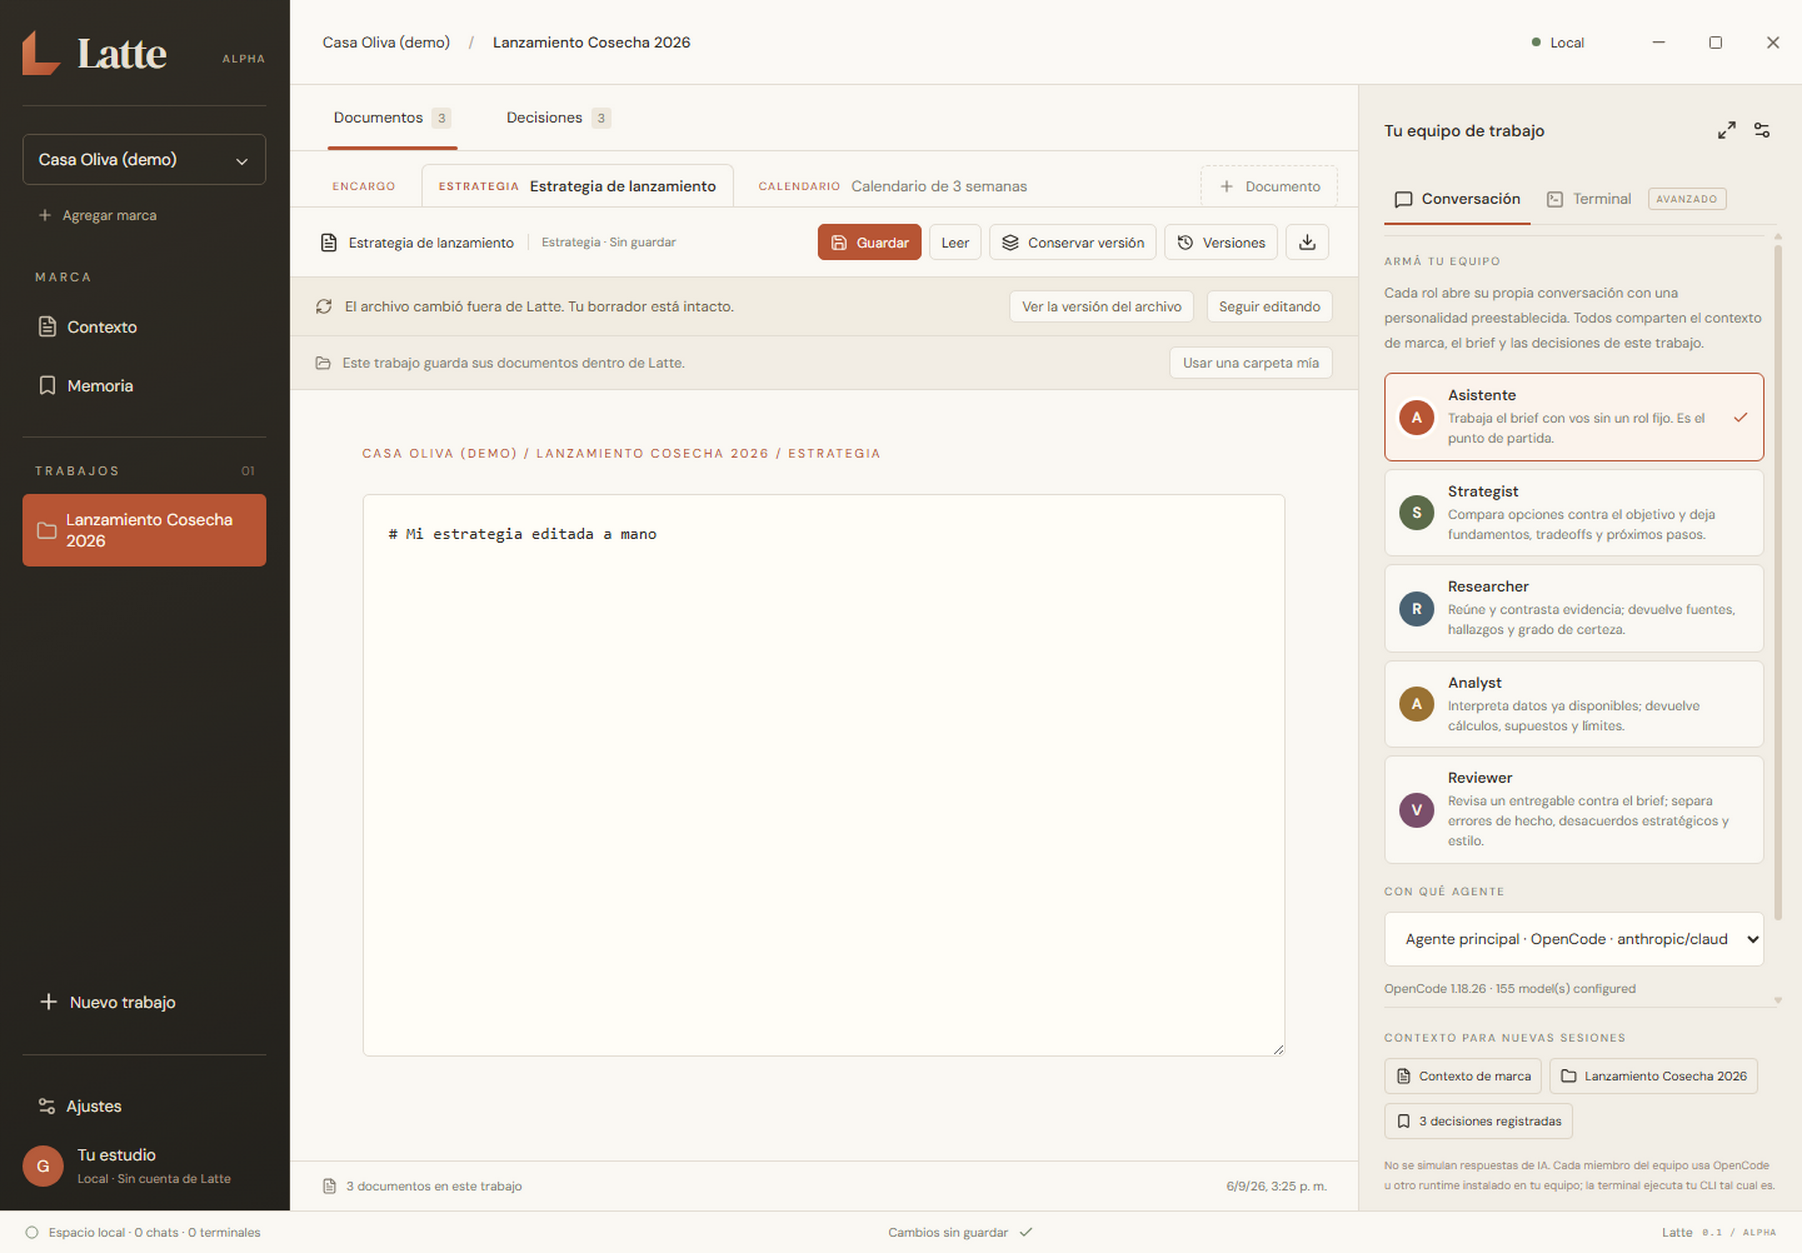
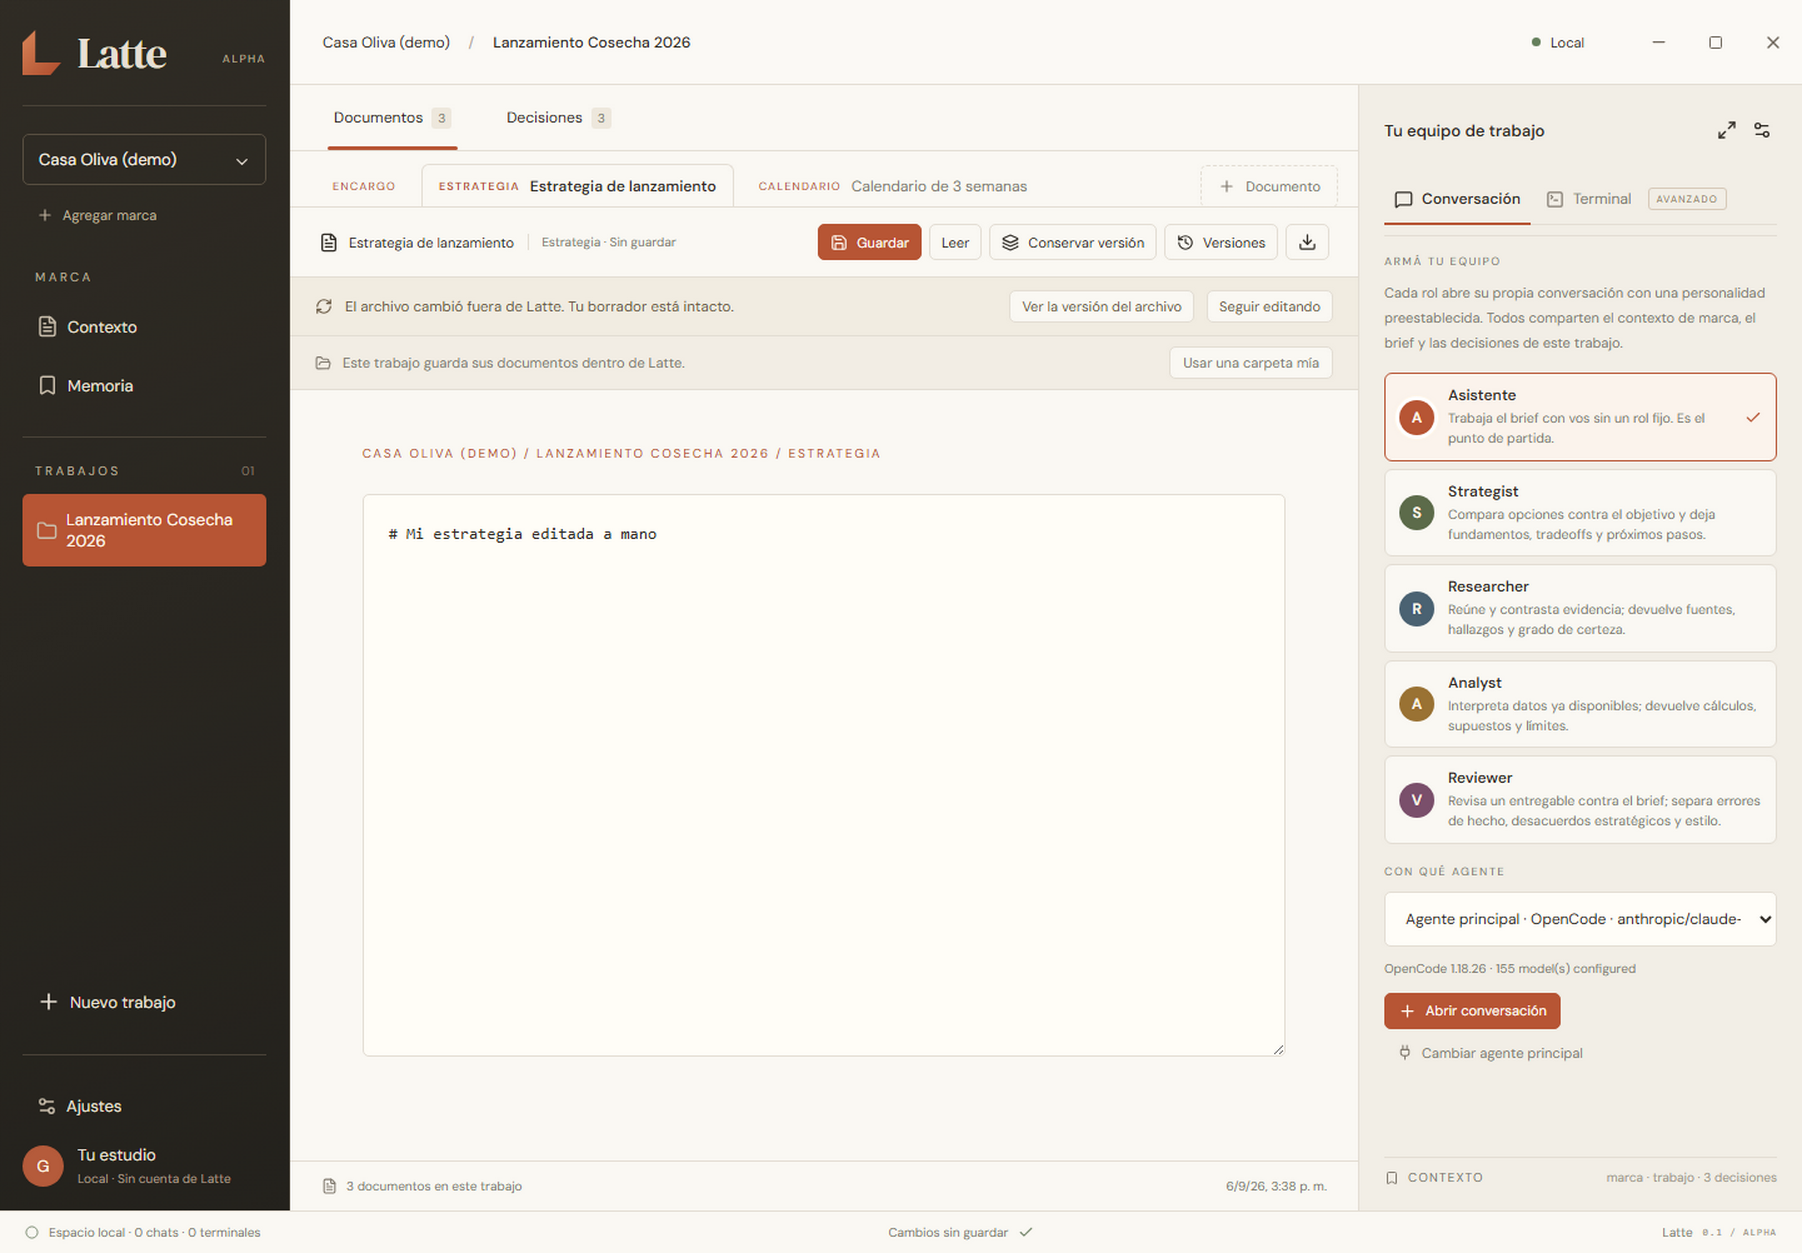
fix: la conversación deja de tener dos scrolls y gana el alto del panel
El panel del equipo y la conversación scrolleaban a la vez, así que el
compositor quedaba cortado y el bloque de contexto le robaba altura al chat.

- La conversación es lo único que scrollea; el roster se acota y el compositor
  queda siempre completo abajo.
- "Contexto para nuevas sesiones" pasa a ser una línea plegable con resumen,
  de 46 px en vez de un bloque fijo.
- scripts/visual-team.cjs mide que no haya scrolls anidados, que el compositor
  entre entero y que el contexto arranque plegado.

Changed region(s): [[0.7458, 0.2179, 0.9945, 0.9649], [0.808, 0.5603, 0.9012, 0.5914]]

diff --git a/src/App.tsx b/src/App.tsx
@@ -237,7 +237,15 @@ export function App() {
       {agentMode === 'terminal' && <><p className="agent-explanation">Tu CLI, con sus herramientas y su propia interfaz. Latte prepara el espacio y el contexto de este trabajo.</p><label className="field-label" htmlFor="provider">RUNTIME</label><select id="provider" value={provider} disabled={Boolean(session) || starting} onChange={e => setProvider(e.target.value as Provider)}>{(['opencode', 'claude', 'codex'] as Provider[]).map(p => <option key={p} value={p}>{p === 'opencode' ? 'OpenCode' : p === 'claude' ? 'Claude Code' : 'Codex'}{runtimes.find(r => r.provider === p)?.available ? ' · Detectado' : ''}</option>)}</select><p className="runtime-detail">{runtimes.find(r => r.provider === provider)?.detail ?? 'Comprobando disponibilidad…'}</p>
         <div className="terminal-stack">{Object.values(sessions).map(s => <div key={s.id} style={{ display: s.id === session?.id ? 'block' : 'none' }}><TerminalPane sessionId={s.id} onError={setError} /></div>)}</div>
         {session ? <><div className="session-heading"><span><i className={sessionEnded ? 'ended-dot' : 'live-dot'} />{session.provider} · {sessionWork?.title ?? 'Trabajo de la sesión'}</span><button aria-label="Detener agente" title="Detener agente" onClick={() => run(async () => { await api.stopAgent(session.id); setSession(null); })}><Square size={13} /></button></div><form className="prompt-form" onSubmit={e => { e.preventDefault(); if (!prompt.trim() || sessionEnded) return; void run(async () => { await api.writeAgent(session.id, prompt + '\r'); setPrompt(''); }); }}><textarea aria-label="Mensaje al agente" placeholder="¿Qué trabajamos ahora?" value={prompt} onChange={e => setPrompt(e.target.value)} /><div><small>{sessionEnded ? 'Sesión finalizada' : 'Se envía al CLI activo'}</small><button className="primary icon-button" disabled={!prompt.trim() || busy || sessionEnded} aria-label="Enviar mensaje"><ArrowUpRight size={18} /></button></div></form></> : <div className="agent-idle"><div className="agent-symbol"><TerminalSquare size={27} /></div><h3>Una terminal real<br />para tu CLI.</h3><p>Iniciá una sesión con tu CLI instalado. Sus permisos y autenticación siguen bajo tu control.</p><button className="primary" disabled={!work || starting || !runtimes.find(r => r.provider === provider)?.available} onClick={start}>{starting ? <LoaderCircle className="spin" size={15} /> : <Plus size={15} />}{starting ? 'Iniciando…' : 'Iniciar agente'}</button>{!isDesktop && <small className="preview-note">La vista web guarda en este navegador. Para ejecutar agentes, abrí Latte Desktop.</small>}</div>}</>}
-      <div className="active-context"><div className="field-label">CONTEXTO PARA NUEVAS SESIONES</div><span><FileText size={13} />{brand?.context ? 'Contexto de marca' : 'Marca sin contexto'}</span><span><Folder size={13} />{work?.title ?? 'Sin trabajo seleccionado'}</span><span><Bookmark size={13} />{decisions.length} decisiones registradas</span></div><p className="agent-footnote">No se simulan respuestas de IA. Cada miembro del equipo usa {runtimeName} u otro runtime instalado en tu equipo; la terminal ejecuta tu CLI tal cual es.</p>
+      <details className="active-context">
+        <summary><Bookmark size={12} />Contexto<span>{[brand?.context ? 'marca' : null, work ? 'trabajo' : null, decisions.length ? `${decisions.length} decisiones` : null].filter(Boolean).join(' · ') || 'sin contexto'}</span></summary>
+        <div className="active-context-body">
+          <span><FileText size={13} />{brand?.context ? 'Contexto de marca' : 'Marca sin contexto'}</span>
+          <span><Folder size={13} />{work?.title ?? 'Sin trabajo seleccionado'}</span>
+          <span><Bookmark size={13} />{decisions.length} decisiones registradas</span>
+          <p className="agent-footnote">No se simulan respuestas de IA. Cada miembro del equipo usa {runtimeName} u otro runtime instalado en tu equipo; la terminal ejecuta tu CLI tal cual es.</p>
+        </div>
+      </details>
     </aside>
     <footer className="statusbar"><span><Circle size={11} />{isDesktop ? `Espacio local · ${activeChats} chats · ${activeTerminals} terminales` : 'Previsualización · localStorage'}</span><span>{busy ? 'Procesando…' : dirty || contextDirty ? 'Cambios sin guardar' : 'Todo guardado'}<Check size={13} /></span><span>Latte <span className="status-version">0.1 / ALPHA</span></span></footer>
     {(modal === 'brand' || modal === 'work') && <div className="modal-backdrop" onClick={e => { if (e.target === e.currentTarget && !busy) setModal(null); }}><section role="dialog" aria-modal="true" aria-labelledby="dialog-title" className="modal"><div className="modal-head"><div><div className="document-kicker">TU ESTUDIO, CON ORDEN</div><h2 id="dialog-title">{modal === 'brand' ? 'Una nueva marca.' : 'Un nuevo trabajo.'}</h2></div><button className="modal-close" aria-label="Cerrar" onClick={() => setModal(null)}><X size={20} /></button></div><div className="modal-body"><form onSubmit={e => { e.preventDefault(); void create(); }}><label className="field-label" htmlFor="new-name">{modal === 'brand' ? 'NOMBRE DE LA MARCA' : 'TÍTULO DEL TRABAJO'}</label><input autoFocus id="new-name" maxLength={120} value={name} onChange={e => setName(e.target.value)} placeholder={modal === 'brand' ? 'Ej. Casa Oliva' : 'Ej. Investigación de audiencia'} /><p className="footnote">Podés empezar con lo que sabés e incorporar contexto después.</p><button className="primary" disabled={!name.trim() || busy}>Crear {modal === 'brand' ? 'marca' : 'trabajo'}<ArrowUpRight size={16} /></button></form></div></section></div>}

diff --git a/src/styles.css b/src/styles.css
@@ -359,3 +359,23 @@ html,body,#root{height:100%;overflow:hidden}
 .modal-close{position:static;padding:6px;flex-shrink:0}
 .modal-body>.intro{margin-top:0}
 @media(max-width:850px){.modal-head{padding:22px 20px 12px}.modal-body{padding:18px 20px 24px}.modal.roomy{width:auto}}
+
+/* --- Panel del agente: un solo scroll, el de la conversación ---------------- */
+/* Antes scrolleaban el panel y la conversación a la vez: el compositor quedaba
+   cortado y el bloque de contexto le robaba alto al chat. */
+.agent-panel>.team{overflow:hidden;margin-right:0;padding-right:0}
+.team-roster{max-height:34vh;overflow-y:auto;overscroll-behavior:contain}
+.chat-pane{min-height:0}
+.chat-pane .chat-scroll{flex:1 1 auto;min-height:120px;max-height:none;overscroll-behavior:contain}
+.chat-pane .prompt-form{flex-shrink:0;margin-bottom:0}
+/* El contexto se pliega: una línea salvo que lo abras. */
+.active-context{border-top:1px solid var(--line);margin-top:10px;padding-top:0;flex-shrink:0}
+.active-context>summary{display:flex;align-items:center;gap:7px;cursor:pointer;list-style:none;padding:10px 0 9px;font-size:10px;letter-spacing:1.4px;text-transform:uppercase;color:var(--muted)}
+.active-context>summary::-webkit-details-marker{display:none}
+.active-context>summary>span{margin-left:auto;letter-spacing:0;text-transform:none;font-size:10.5px;color:#a2988a;white-space:nowrap;overflow:hidden;text-overflow:ellipsis}
+.active-context>summary:hover{color:#302c26}
+.active-context-body{padding-bottom:10px}
+.active-context-body>span{font-size:10px;display:inline-flex;gap:6px;align-items:center;border:1px solid #ded5c6;border-radius:4px;padding:6px 8px;margin:0 6px 6px 0;max-width:100%;overflow-wrap:anywhere}
+.active-context-body .agent-footnote{margin:6px 0 0}
+.active-context>summary{letter-spacing:1.1px;padding:9px 0 8px}
+.active-context>summary>span{letter-spacing:0;font-size:10px}
